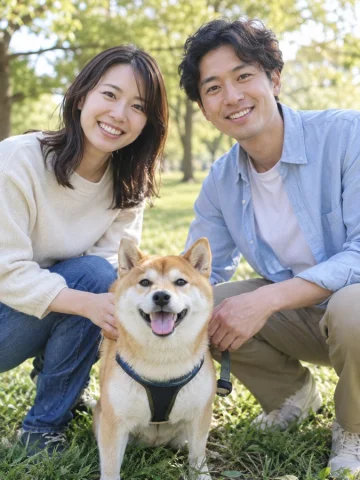
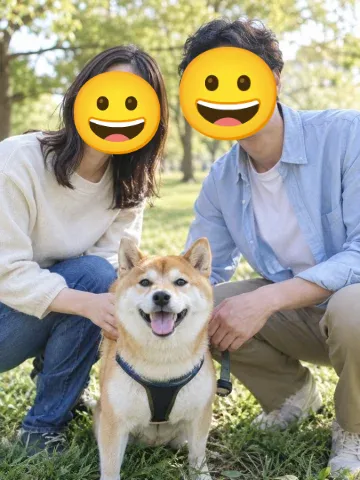
アプリの説明用画像を変更
表示される画像の見た目は変更前後でほぼ同じ
スタンプで顔を隠す方法を変更した
変更前: CSSで位置を指定してスタンプ画像を`src/assets/share-example.webp`の画像の上に配置
変更後: スタンプで顔を隠した画像を`src/assets/share-example.webp`の画像として用意した

変更前にあった以下の問題を解決
- スタンプの位置が顔の位置から少しずれている
- 画像をドラッグするとスタンプで隠す前の元画像が表示される
- スタンプ画像の表示が遅れて元画像が一瞬表示されることがある
- コードの可読性と保守性が低い

Changed region(s): [[0.4889, 0.0938, 0.7944, 0.3125], [0.1833, 0.125, 0.4583, 0.3438]]

diff --git a/src/image-editor/upload-screen/UploadScreen.tsx b/src/image-editor/upload-screen/UploadScreen.tsx
@@ -2,7 +2,6 @@ import { type FileRejection, useDropzone } from 'react-dropzone';
 import { cn } from 'cn';
 import { ArrowUp, Camera, ImageIcon } from 'lucide-react';
 import shareExample from '@/assets/share-example.webp';
-import smileSticker from '@/assets/stickers/smile.png';
 import { ImagePrivacyDialog } from '@/components/ImagePrivacyDialog.tsx';
 import { Button } from '@/components/ui/button.tsx';
 
@@ -129,29 +128,13 @@ export function UploadScreen({ onUpload }: Props) {
             <ImagePrivacyDialog />
           </div>
           <figure className="mx-auto w-45 space-y-2 sm:col-start-1 sm:row-start-1">
-            <div
-              className="relative overflow-hidden rounded-xl"
-              role="img"
-              aria-label="加工例：犬の顔はそのままに、一緒に写った2人の顔を笑顔のスタンプで隠した写真"
-            >
-              <img
-                src={shareExample}
-                width={360}
-                height={480}
-                alt=""
-                className="block w-full"
-              />
-              <img
-                src={smileSticker}
-                alt=""
-                className="absolute top-[12%] left-[18%] w-[27%]"
-              />
-              <img
-                src={smileSticker}
-                alt=""
-                className="absolute top-[9%] left-[54%] w-[27%]"
-              />
-            </div>
+            <img
+              src={shareExample}
+              width={360}
+              height={480}
+              alt="加工例：犬の顔はそのままに、一緒に写った2人の顔を笑顔のスタンプで隠した写真"
+              className="block w-full overflow-hidden rounded-xl"
+            />
             <figcaption className="text-muted-foreground text-xs leading-relaxed">
               <span className="block">犬の顔はそのまま、</span>
               <span className="block">人の顔を隠せます。</span>
